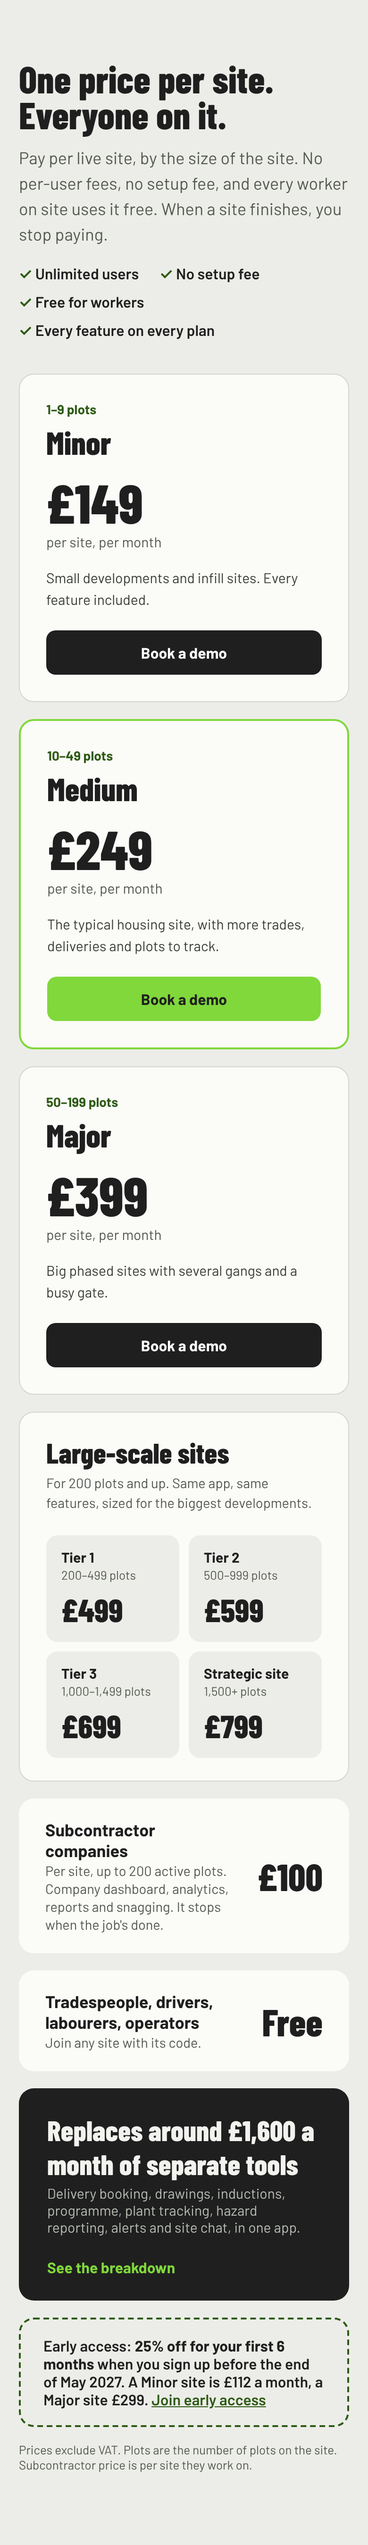
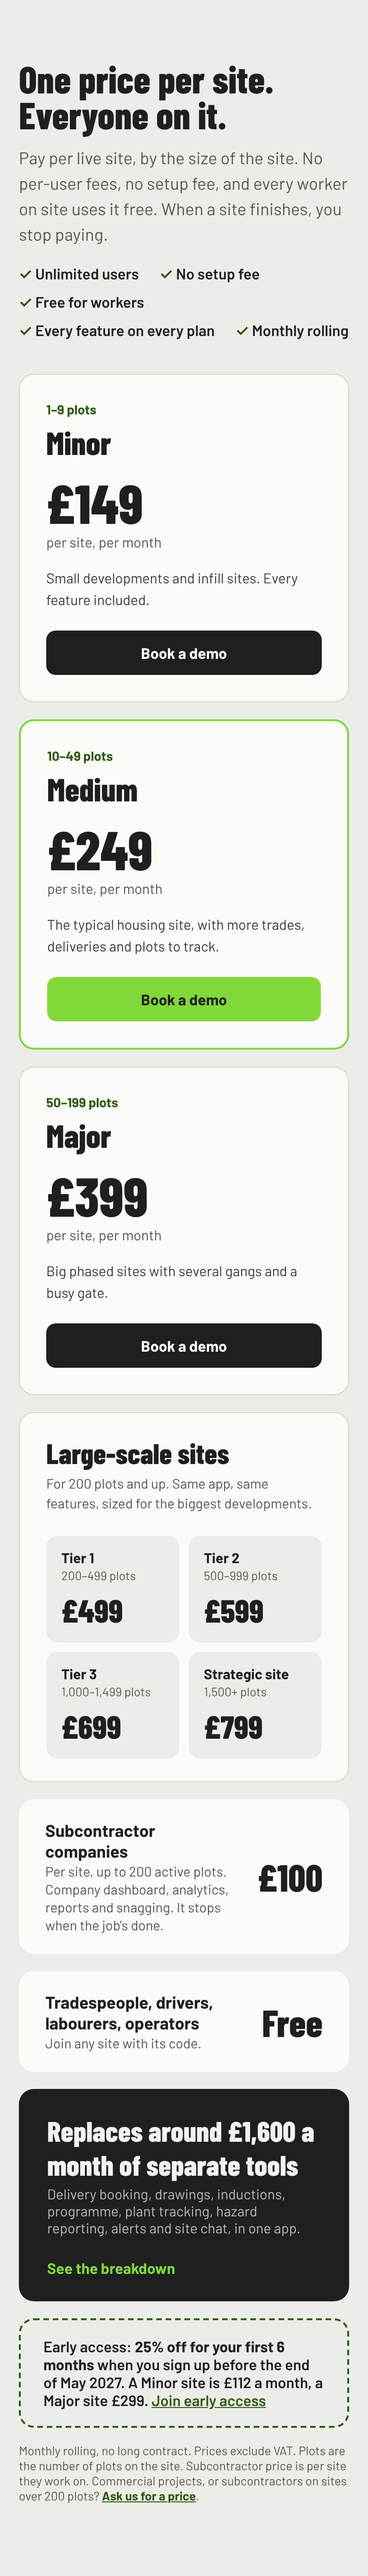
Pricing: monthly rolling, price on request for commercial and large-site subcontractors
Claude-Session: https://claude.ai/code/session_01Rq6TRmoTie3jpEZMymRowt

diff --git a/marketing/website/pricing-section.html b/marketing/website/pricing-section.html
@@ -54,7 +54,7 @@
   <div class="wrap">
     <h2>One price per site. Everyone on it.</h2>
     <p class="lead">Pay per live site, by the size of the site. No per-user fees, no setup fee, and every worker on site uses it free. When a site finishes, you stop paying.</p>
-    <ul class="ticks"><li>Unlimited users</li><li>No setup fee</li><li>Free for workers</li><li>Every feature on every plan</li></ul>
+    <ul class="ticks"><li>Unlimited users</li><li>No setup fee</li><li>Free for workers</li><li>Every feature on every plan</li><li>Monthly rolling</li></ul>
 
     <div class="plans">
       <div class="plan">
@@ -102,7 +102,7 @@
 
     <div class="early">Early access: <b>25% off for your first 6 months</b> when you sign up before the end of May 2027. A Minor site is £112 a month, a Major site £299. <a href="#demo" style="color:#2E5A14">Join early access</a></div>
 
-    <p class="small">Prices exclude VAT. Plots are the number of plots on the site. Subcontractor price is per site they work on.</p>
+    <p class="small">Monthly rolling, no long contract. Prices exclude VAT. Plots are the number of plots on the site. Subcontractor price is per site they work on. Commercial projects, or subcontractors on sites over 200 plots? <a href="#demo" style="color:#2E5A14;font-weight:700">Ask us for a price</a>.</p>
   </div>
 </section>
 </body>
